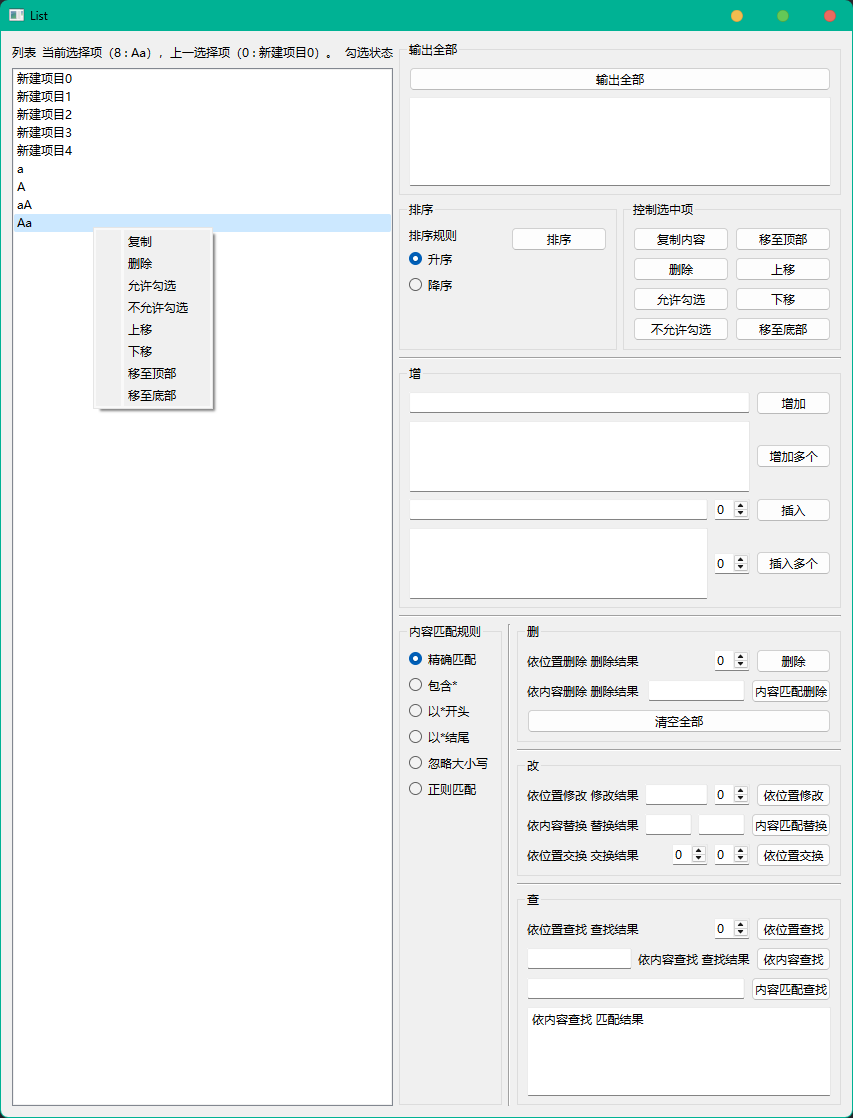
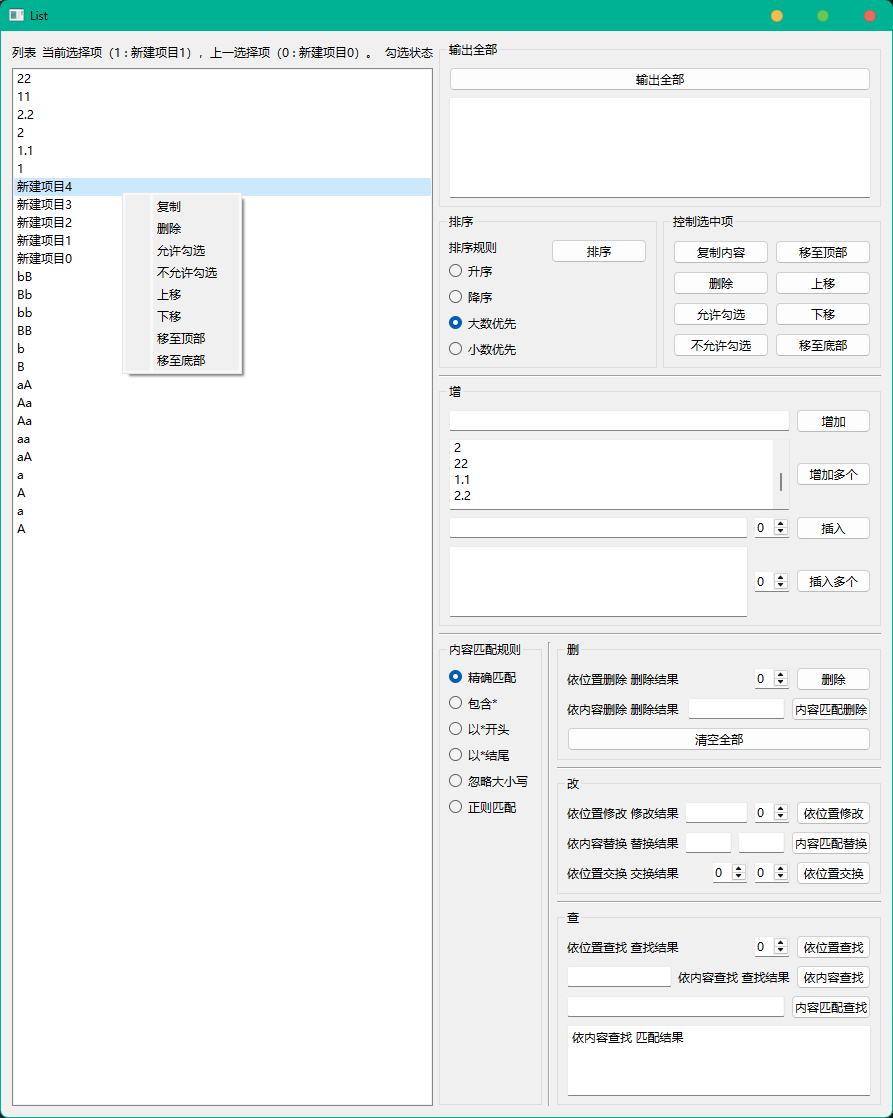
增加自定义排序 按数字大小

diff --git a/代码/4.PySide6中常用部件API的使用/列表/Run_List.py b/代码/4.PySide6中常用部件API的使用/列表/Run_List.py
@@ -108,6 +108,94 @@ class MyWindow(QWidget):
             self.ui.listWidget_List.sortItems(Qt.SortOrder.AscendingOrder)
         elif self.ui.radioButton_descending_order.isChecked():  # 降序
             self.ui.listWidget_List.sortItems(Qt.SortOrder.DescendingOrder)
+        elif self.ui.radioButton_max_order.isChecked():  # 大数优先
+            self.customSortOrderMax()
+        elif self.ui.radioButton_min_order.isChecked():  # 小数优先
+            self.customSortOrderMin()
+
+    # 大数优先
+    def customSortOrderMax(self):
+        # 初始化三个列表，分别用于整数、小数和字符串
+        int_list = []
+        float_list = []
+        string_list = []
+        # 遍历 QListWidget 中的所有项
+        for i in range(self.ui.listWidget_List.count()):
+            # 获取每一项
+            item = self.ui.listWidget_List.item(i)
+            if item is not None:
+                # 尝试将项的文本转换为整数
+                try:
+                    number = int(item.text())
+                    # 如果成功，添加到整数列表
+                    int_list.append(number)
+                except ValueError:
+                    # 如果转换失败，尝试将项的文本转换为小数
+                    try:
+                        number = float(item.text())
+                        # 如果成功，添加到小数列表
+                        float_list.append(number)
+                    except ValueError:
+                        # 如果转换失败，添加到字符串列表
+                        string_list.append(item.text())
+        # 对整数列表进行从大到小排序
+        sorted_int_list = sorted(int_list, reverse=True)
+        # 对小数列表进行从大到小排序
+        sorted_float_list = sorted(float_list, reverse=True)
+        # 合并排序后的整数列表和小数列表
+        merged_number_list = sorted_int_list + sorted_float_list
+        # 对合并后的列表进行从大到小排序
+        sorted_merged_number_list = sorted(merged_number_list, reverse=True)
+        # 对字符串列表进行排序
+        sorted_string_list = sorted(string_list, reverse=True, key=lambda s: s.lower())
+        # 将字符串列表添加到合并后的数字列表末尾
+        merged_list = sorted_merged_number_list + sorted_string_list
+        # 清空 QListWidget
+        self.ui.listWidget_List.clear()
+        # 将合并后的列表转换为字符串，并添加到 QListWidget 中
+        [self.ui.listWidget_List.addItem(str(item)) for item in merged_list]
+
+    # 小数优先
+    def customSortOrderMin(self):
+        # 初始化三个列表，分别用于整数、小数和字符串
+        int_list = []
+        float_list = []
+        string_list = []
+        # 遍历 QListWidget 中的所有项
+        for i in range(self.ui.listWidget_List.count()):
+            # 获取每一项
+            item = self.ui.listWidget_List.item(i)
+            if item is not None:
+                # 尝试将项的文本转换为整数
+                try:
+                    number = int(item.text())
+                    # 如果成功，添加到整数列表
+                    int_list.append(number)
+                except ValueError:
+                    # 如果转换失败，尝试将项的文本转换为小数
+                    try:
+                        number = float(item.text())
+                        # 如果成功，添加到小数列表
+                        float_list.append(number)
+                    except ValueError:
+                        # 如果转换失败，添加到字符串列表
+                        string_list.append(item.text())
+        # 对整数列表进行从小到大排序
+        sorted_int_list = sorted(int_list, reverse=False)
+        # 对小数列表进行从小到大排序
+        sorted_float_list = sorted(float_list, reverse=False)
+        # 合并排序后的整数列表和小数列表
+        merged_number_list = sorted_int_list + sorted_float_list
+        # 对合并后的列表进行从小到大排序
+        sorted_merged_number_list = sorted(merged_number_list, reverse=False)
+        # 对字符串列表进行排序
+        sorted_string_list = sorted(string_list, reverse=False, key=lambda s: s.lower())
+        # 将字符串列表添加到合并后的数字列表末尾
+        merged_list = sorted_merged_number_list + sorted_string_list
+        # 清空 QListWidget
+        self.ui.listWidget_List.clear()
+        # 将合并后的列表转换为字符串，并添加到 QListWidget 中
+        [self.ui.listWidget_List.addItem(str(item)) for item in merged_list]
 
     # 输出全部
     def print_all(self):

diff --git a/代码/4.PySide6中常用部件API的使用/列表/Ui_List.py b/代码/4.PySide6中常用部件API的使用/列表/Ui_List.py
@@ -135,6 +135,18 @@ class Ui_Form_List(object):
 
         self.verticalLayout_4.addWidget(self.radioButton_descending_order)
 
+        self.radioButton_max_order = QRadioButton(self.groupBox_2)
+        self.buttonGroup.addButton(self.radioButton_max_order)
+        self.radioButton_max_order.setObjectName(u"radioButton_max_order")
+
+        self.verticalLayout_4.addWidget(self.radioButton_max_order)
+
+        self.radioButton_min_order = QRadioButton(self.groupBox_2)
+        self.buttonGroup.addButton(self.radioButton_min_order)
+        self.radioButton_min_order.setObjectName(u"radioButton_min_order")
+
+        self.verticalLayout_4.addWidget(self.radioButton_min_order)
+
         self.verticalSpacer = QSpacerItem(20, 40, QSizePolicy.Policy.Minimum, QSizePolicy.Policy.Expanding)
 
         self.verticalLayout_4.addItem(self.verticalSpacer)
@@ -691,6 +703,8 @@ class Ui_Form_List(object):
         self.label_2.setText(QCoreApplication.translate("Form_List", u"\u6392\u5e8f\u89c4\u5219", None))
         self.radioButton_ascending_order.setText(QCoreApplication.translate("Form_List", u"\u5347\u5e8f", None))
         self.radioButton_descending_order.setText(QCoreApplication.translate("Form_List", u"\u964d\u5e8f", None))
+        self.radioButton_max_order.setText(QCoreApplication.translate("Form_List", u"\u5927\u6570\u4f18\u5148", None))
+        self.radioButton_min_order.setText(QCoreApplication.translate("Form_List", u"\u5c0f\u6570\u4f18\u5148", None))
         self.pushButton_sort.setText(QCoreApplication.translate("Form_List", u"\u6392\u5e8f", None))
         self.groupBox.setTitle(QCoreApplication.translate("Form_List", u"\u63a7\u5236\u9009\u4e2d\u9879", None))
         self.pushButton_copy_current_item.setText(QCoreApplication.translate("Form_List", u"\u590d\u5236\u5185\u5bb9", None))

diff --git a/文档/4.PySide6中常用部件API的使用.md b/文档/4.PySide6中常用部件API的使用.md
@@ -419,6 +419,94 @@ class MyWindow(QWidget):
             self.ui.listWidget_List.sortItems(Qt.SortOrder.AscendingOrder)
         elif self.ui.radioButton_descending_order.isChecked():  # 降序
             self.ui.listWidget_List.sortItems(Qt.SortOrder.DescendingOrder)
+        elif self.ui.radioButton_max_order.isChecked():  # 大数优先
+            self.customSortOrderMax()
+        elif self.ui.radioButton_min_order.isChecked():  # 小数优先
+            self.customSortOrderMin()
+
+    # 大数优先
+    def customSortOrderMax(self):
+        # 初始化三个列表，分别用于整数、小数和字符串
+        int_list = []
+        float_list = []
+        string_list = []
+        # 遍历 QListWidget 中的所有项
+        for i in range(self.ui.listWidget_List.count()):
+            # 获取每一项
+            item = self.ui.listWidget_List.item(i)
+            if item is not None:
+                # 尝试将项的文本转换为整数
+                try:
+                    number = int(item.text())
+                    # 如果成功，添加到整数列表
+                    int_list.append(number)
+                except ValueError:
+                    # 如果转换失败，尝试将项的文本转换为小数
+                    try:
+                        number = float(item.text())
+                        # 如果成功，添加到小数列表
+                        float_list.append(number)
+                    except ValueError:
+                        # 如果转换失败，添加到字符串列表
+                        string_list.append(item.text())
+        # 对整数列表进行从大到小排序
+        sorted_int_list = sorted(int_list, reverse=True)
+        # 对小数列表进行从大到小排序
+        sorted_float_list = sorted(float_list, reverse=True)
+        # 合并排序后的整数列表和小数列表
+        merged_number_list = sorted_int_list + sorted_float_list
+        # 对合并后的列表进行从大到小排序
+        sorted_merged_number_list = sorted(merged_number_list, reverse=True)
+        # 对字符串列表进行排序
+        sorted_string_list = sorted(string_list, reverse=True, key=lambda s: s.lower())
+        # 将字符串列表添加到合并后的数字列表末尾
+        merged_list = sorted_merged_number_list + sorted_string_list
+        # 清空 QListWidget
+        self.ui.listWidget_List.clear()
+        # 将合并后的列表转换为字符串，并添加到 QListWidget 中
+        [self.ui.listWidget_List.addItem(str(item)) for item in merged_list]
+
+    # 小数优先
+    def customSortOrderMin(self):
+        # 初始化三个列表，分别用于整数、小数和字符串
+        int_list = []
+        float_list = []
+        string_list = []
+        # 遍历 QListWidget 中的所有项
+        for i in range(self.ui.listWidget_List.count()):
+            # 获取每一项
+            item = self.ui.listWidget_List.item(i)
+            if item is not None:
+                # 尝试将项的文本转换为整数
+                try:
+                    number = int(item.text())
+                    # 如果成功，添加到整数列表
+                    int_list.append(number)
+                except ValueError:
+                    # 如果转换失败，尝试将项的文本转换为小数
+                    try:
+                        number = float(item.text())
+                        # 如果成功，添加到小数列表
+                        float_list.append(number)
+                    except ValueError:
+                        # 如果转换失败，添加到字符串列表
+                        string_list.append(item.text())
+        # 对整数列表进行从小到大排序
+        sorted_int_list = sorted(int_list, reverse=False)
+        # 对小数列表进行从小到大排序
+        sorted_float_list = sorted(float_list, reverse=False)
+        # 合并排序后的整数列表和小数列表
+        merged_number_list = sorted_int_list + sorted_float_list
+        # 对合并后的列表进行从小到大排序
+        sorted_merged_number_list = sorted(merged_number_list, reverse=False)
+        # 对字符串列表进行排序
+        sorted_string_list = sorted(string_list, reverse=False, key=lambda s: s.lower())
+        # 将字符串列表添加到合并后的数字列表末尾
+        merged_list = sorted_merged_number_list + sorted_string_list
+        # 清空 QListWidget
+        self.ui.listWidget_List.clear()
+        # 将合并后的列表转换为字符串，并添加到 QListWidget 中
+        [self.ui.listWidget_List.addItem(str(item)) for item in merged_list]
 
     # 输出全部
     def print_all(self):
